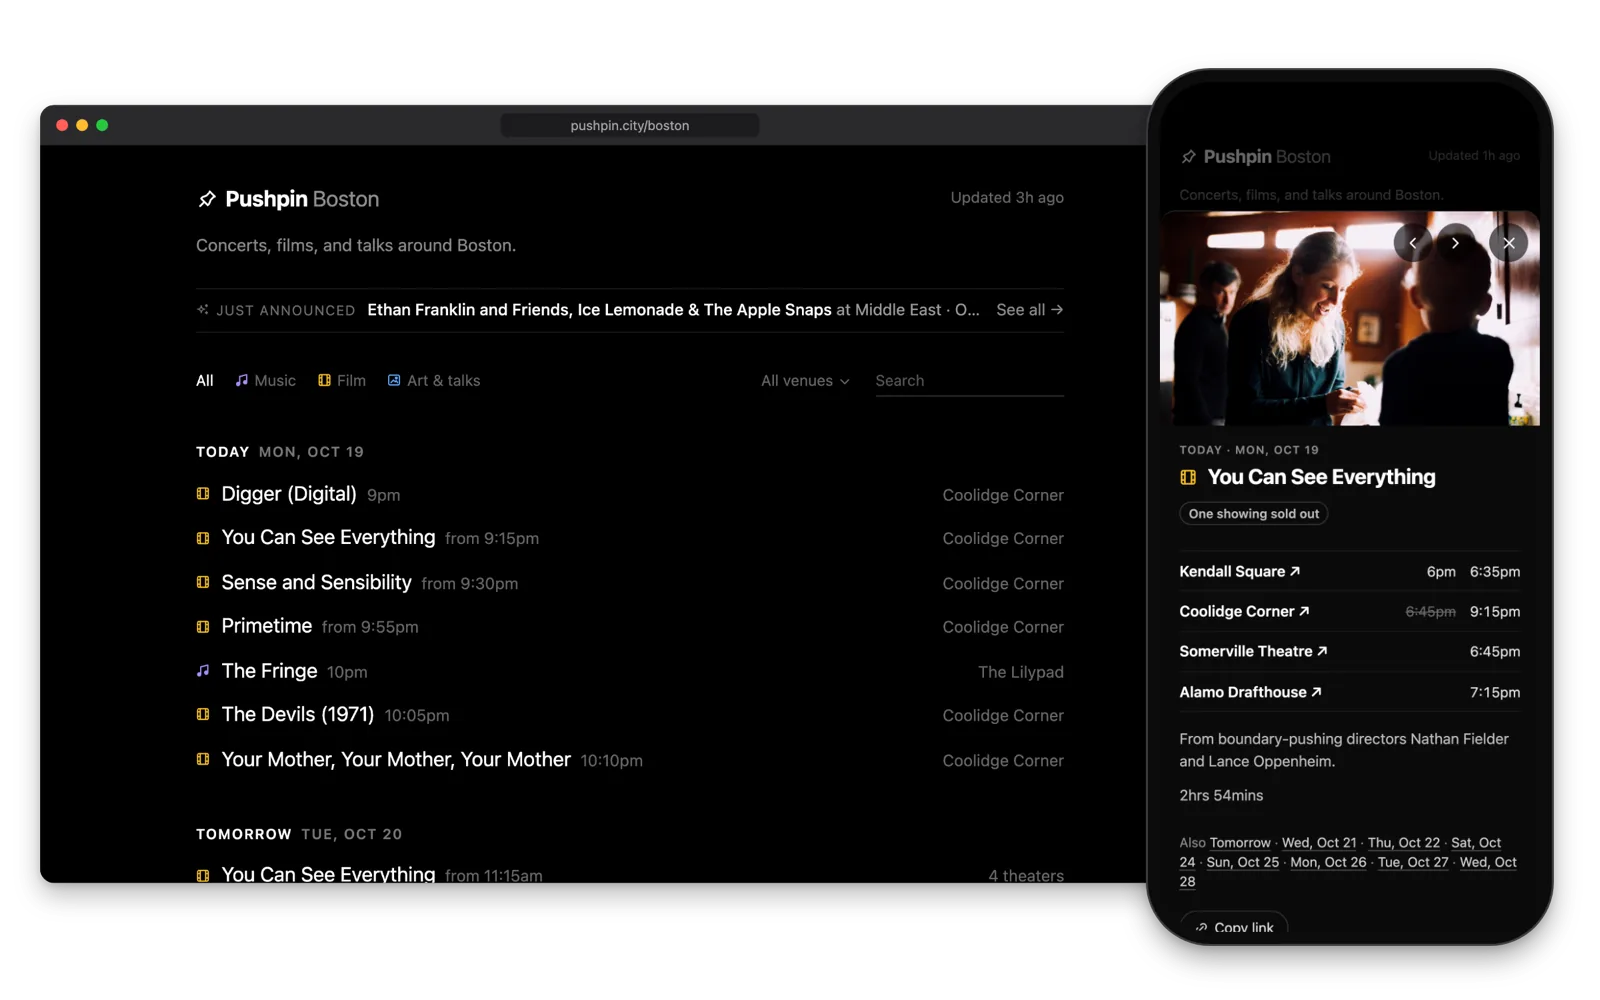
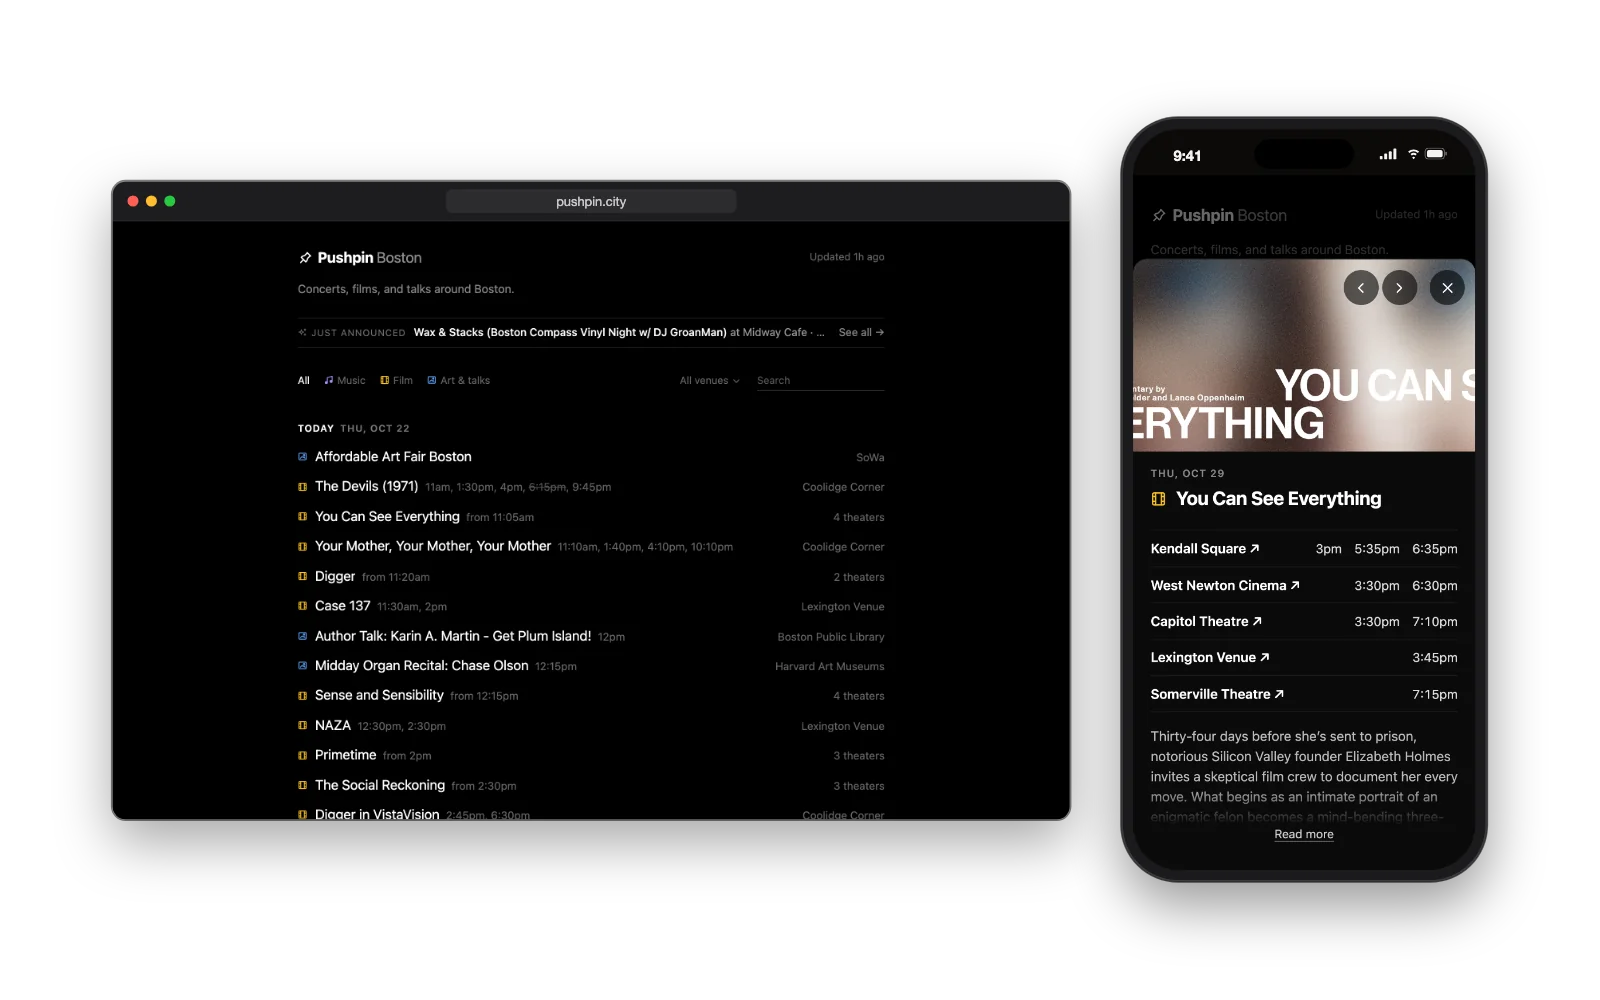
Projects: Stacks first, and every mockup with the phone beside the window
Projects now run Stacks, Pushpin, Bounce, Flow Sequencer, then Retro Blackjack, on the home page and the Projects page, with Stacks shown as 2023–2026. Every mockup puts the phone (or Blackjack's handheld) beside the browser window with clear space between them instead of overlapping it. Pushpin, Flow Sequencer and Bounce are recaptured from the live sites in one shared dark frame; Retro Blackjack is back in light mode with a new hand.

diff --git a/content/Projects.md b/content/Projects.md
@@ -5,20 +5,20 @@ socialImage: share/projects.png
 Noteworthy projects I've built on my own time, from 2021 to 2026. Most are written in React and TypeScript, with Remix for full-stack apps, Python for gathering data, browser APIs for sound and speech, and GitHub Actions and Pages to build and host them.
 
 <div class="projects">
+<a class="project" href="https://bookstacks.site/">
+<img class="mockup" src="/screenshots/bookshelf.webp" width="1600" height="1000" decoding="async" alt="Stacks' home page in dark mode in a desktop browser window: rows of recently added books and books to read next, noting which friend has each, the start of the loans list, and a Friend activity column of notes on Circe, The Overstory and The Poppy War, beside a phone open to Piranesi by Susanna Clarke, lent to Sam, loved, with Priya waiting for it next">
+<h2>Stacks <span class="project-year">2023–2026</span></h2>
+<p>A lending library for your own books: catalog what you own, connect with friends, and lend and borrow.</p>
+<p class="project-tech">Remix · Prisma · SQLite · Tailwind CSS · Fly.io</p>
+</a>
+<a class="link-button project-case" href="/stacks">Read the case study →</a>
 <a class="project" href="https://pushpin.city/boston/">
-<img class="mockup" src="/screenshots/pushpin.webp" width="1600" height="1000" decoding="async" alt="Pushpin Boston in a desktop browser window, listing today's films, concerts and talks with their times and venues, beside a phone showing one film, You Can See Everything, open with a still from it and its showtimes at four theaters">
+<img class="mockup" src="/screenshots/pushpin.webp" width="1600" height="1000" loading="lazy" decoding="async" alt="Pushpin Boston in a desktop browser window, listing today's films, concerts and talks with their times and venues, beside a phone showing one film, You Can See Everything, open with a still from it and its showtimes at five theaters">
 <h2>Pushpin <span class="project-year">2026</span></h2>
 <p>Concerts, films and talks around Boston, the Bay Area and Western Mass, gathered from venues' own listings. I'm its developer and maintainer.</p>
 <p class="project-tech">Python · GitHub Actions · GitHub Pages</p>
 </a>
 <a class="link-button project-case" href="/pushpin">Read the case study →</a>
-<a class="project" href="https://yoga.grahamhagenah.com/">
-<img class="mockup" src="/screenshots/yoga.webp" width="1600" height="1000" loading="lazy" decoding="async" alt="Flow Sequencer on a phone, showing one pose at a time: Easy Seat, drawn large, with its cue and 5 breaths above the player, beside the home page in a desktop browser window with a ready-made flow to try">
-<h2>Flow Sequencer <span class="project-year">2026</span></h2>
-<p>Build a yoga flow one pose at a time, or play one of the ready-made flows.</p>
-<p class="project-tech">React · TypeScript · Vite · Web Speech API</p>
-</a>
-<a class="link-button project-case" href="/flow-sequencer">Read the case study →</a>
 <a class="project" href="https://bounce.grahamhagenah.com/">
 <img class="mockup" src="/screenshots/bounce.webp" width="1600" height="1000" loading="lazy" decoding="async" alt="Bounce in a desktop browser window, its song sections laid out as rows of chord blocks, beside a phone open to the verse: its chords and drums on a timeline, and below them the chords of G minor to tap and add">
 <h2>Bounce <span class="project-year">2026</span></h2>
@@ -26,15 +26,15 @@ Noteworthy projects I've built on my own time, from 2021 to 2026. Most are writt
 <p class="project-tech">React · TypeScript · Tone.js · Zustand · IndexedDB</p>
 </a>
 <a class="link-button project-case" href="/bounce">Read the case study →</a>
-<a class="project" href="https://bookstacks.site/">
-<img class="mockup" src="/screenshots/bookshelf.webp" width="1600" height="1000" loading="lazy" decoding="async" alt="Stacks' home page in dark mode in a desktop browser window: rows of recently added books and books to read next, noting which friend has each, the start of the loans list, and a Friend activity column of notes on Circe, The Overstory and The Poppy War, beside a phone open to Piranesi by Susanna Clarke, lent to Sam, loved, with Priya waiting for it next">
-<h2>Stacks <span class="project-year">2023</span></h2>
-<p>A lending library for your own books: catalog what you own, connect with friends, and lend and borrow.</p>
-<p class="project-tech">Remix · Prisma · SQLite · Tailwind CSS · Fly.io</p>
+<a class="project" href="https://yoga.grahamhagenah.com/">
+<img class="mockup" src="/screenshots/yoga.webp" width="1600" height="1000" loading="lazy" decoding="async" alt="Flow Sequencer's home page in a desktop browser window, with a ready-made flow to try, beside a phone showing one pose at a time: Mountain, drawn large, with its cue and 5 breaths above the player">
+<h2>Flow Sequencer <span class="project-year">2026</span></h2>
+<p>Build a yoga flow one pose at a time, or play one of the ready-made flows.</p>
+<p class="project-tech">React · TypeScript · Vite · Web Speech API</p>
 </a>
-<a class="link-button project-case" href="/stacks">Read the case study →</a>
+<a class="link-button project-case" href="/flow-sequencer">Read the case study →</a>
 <a class="project" href="https://blackjack.grahamhagenah.com/">
-<img class="mockup" src="/screenshots/blackjack.webp" width="1600" height="1000" loading="lazy" decoding="async" alt="Retro Blackjack in dark mode in a desktop browser window, in monospace type on dark gray: the player's hand, a five, a ten and a two for 17, in a grid of card slots outlined in line art, above Hit, Stand, Double and View Dealer buttons, beside a drawing of the green handheld blackjack game that inspired it, its screen showing the same grid with a king and an eight for 18">
+<img class="mockup" src="/screenshots/blackjack.webp" width="1600" height="1000" loading="lazy" decoding="async" alt="Retro Blackjack in a desktop browser window, in plain gray and monospace type: the player's hand, an eight, an ace counted as one and a jack for 19, in a grid of card slots outlined in line art, above Hit, Stand, Double and View Dealer buttons, beside a drawing of the green handheld blackjack game that inspired it, its screen showing the same grid with a king and an eight for 18">
 <h2>Retro Blackjack <span class="project-year">2021</span></h2>
 <p>Blackjack against the dealer, inspired by the classic electronic handheld: the card slots are drawn like the segments of its LCD screen.</p>
 <p class="project-tech">React · React Spring · Netlify</p>

diff --git a/content/Index.md b/content/Index.md
@@ -15,20 +15,20 @@ I’m a full-stack web developer and designer with seven years of experience bui
 Noteworthy projects I've built on my own time, from 2021 to 2026. Most are written in React and TypeScript, with Remix for full-stack apps, Python for gathering data, browser APIs for sound and speech, and GitHub Actions and Pages to build and host them.
 
 <div class="projects">
+<a class="project" href="https://bookstacks.site/">
+<img class="mockup" src="/screenshots/bookshelf.webp" width="1600" height="1000" decoding="async" alt="Stacks' home page in dark mode in a desktop browser window: rows of recently added books and books to read next, noting which friend has each, the start of the loans list, and a Friend activity column of notes on Circe, The Overstory and The Poppy War, beside a phone open to Piranesi by Susanna Clarke, lent to Sam, loved, with Priya waiting for it next">
+<h3>Stacks <span class="project-year">2023–2026</span></h3>
+<p>A lending library for your own books: catalog what you own, connect with friends, and lend and borrow.</p>
+<p class="project-tech">Remix · Prisma · SQLite · Tailwind CSS · Fly.io</p>
+</a>
+<a class="link-button project-case" href="/stacks">Read the case study →</a>
 <a class="project" href="https://pushpin.city/boston/">
-<img class="mockup" src="/screenshots/pushpin.webp" width="1600" height="1000" decoding="async" alt="Pushpin Boston in a desktop browser window, listing today's films, concerts and talks with their times and venues, beside a phone showing one film, You Can See Everything, open with a still from it and its showtimes at four theaters">
+<img class="mockup" src="/screenshots/pushpin.webp" width="1600" height="1000" loading="lazy" decoding="async" alt="Pushpin Boston in a desktop browser window, listing today's films, concerts and talks with their times and venues, beside a phone showing one film, You Can See Everything, open with a still from it and its showtimes at five theaters">
 <h3>Pushpin <span class="project-year">2026</span></h3>
 <p>Concerts, films and talks around Boston, the Bay Area and Western Mass, gathered from venues' own listings. I'm its developer and maintainer.</p>
 <p class="project-tech">Python · GitHub Actions · GitHub Pages</p>
 </a>
 <a class="link-button project-case" href="/pushpin">Read the case study →</a>
-<a class="project" href="https://yoga.grahamhagenah.com/">
-<img class="mockup" src="/screenshots/yoga.webp" width="1600" height="1000" loading="lazy" decoding="async" alt="Flow Sequencer on a phone, showing one pose at a time: Easy Seat, drawn large, with its cue and 5 breaths above the player, beside the home page in a desktop browser window with a ready-made flow to try">
-<h3>Flow Sequencer <span class="project-year">2026</span></h3>
-<p>Build a yoga flow one pose at a time, or play one of the ready-made flows.</p>
-<p class="project-tech">React · TypeScript · Vite · Web Speech API</p>
-</a>
-<a class="link-button project-case" href="/flow-sequencer">Read the case study →</a>
 <a class="project" href="https://bounce.grahamhagenah.com/">
 <img class="mockup" src="/screenshots/bounce.webp" width="1600" height="1000" loading="lazy" decoding="async" alt="Bounce in a desktop browser window, its song sections laid out as rows of chord blocks, beside a phone open to the verse: its chords and drums on a timeline, and below them the chords of G minor to tap and add">
 <h3>Bounce <span class="project-year">2026</span></h3>
@@ -36,13 +36,13 @@ Noteworthy projects I've built on my own time, from 2021 to 2026. Most are writt
 <p class="project-tech">React · TypeScript · Tone.js · Zustand · IndexedDB</p>
 </a>
 <a class="link-button project-case" href="/bounce">Read the case study →</a>
-<a class="project" href="https://bookstacks.site/">
-<img class="mockup" src="/screenshots/bookshelf.webp" width="1600" height="1000" loading="lazy" decoding="async" alt="Stacks' home page in dark mode in a desktop browser window: rows of recently added books and books to read next, noting which friend has each, the start of the loans list, and a Friend activity column of notes on Circe, The Overstory and The Poppy War, beside a phone open to Piranesi by Susanna Clarke, lent to Sam, loved, with Priya waiting for it next">
-<h3>Stacks <span class="project-year">2023</span></h3>
-<p>A lending library for your own books: catalog what you own, connect with friends, and lend and borrow.</p>
-<p class="project-tech">Remix · Prisma · SQLite · Tailwind CSS · Fly.io</p>
+<a class="project" href="https://yoga.grahamhagenah.com/">
+<img class="mockup" src="/screenshots/yoga.webp" width="1600" height="1000" loading="lazy" decoding="async" alt="Flow Sequencer's home page in a desktop browser window, with a ready-made flow to try, beside a phone showing one pose at a time: Mountain, drawn large, with its cue and 5 breaths above the player">
+<h3>Flow Sequencer <span class="project-year">2026</span></h3>
+<p>Build a yoga flow one pose at a time, or play one of the ready-made flows.</p>
+<p class="project-tech">React · TypeScript · Vite · Web Speech API</p>
 </a>
-<a class="link-button project-case" href="/stacks">Read the case study →</a>
+<a class="link-button project-case" href="/flow-sequencer">Read the case study →</a>
 </div>
 
 <p class="projects-all"><a href="/projects">View all projects →</a></p>
